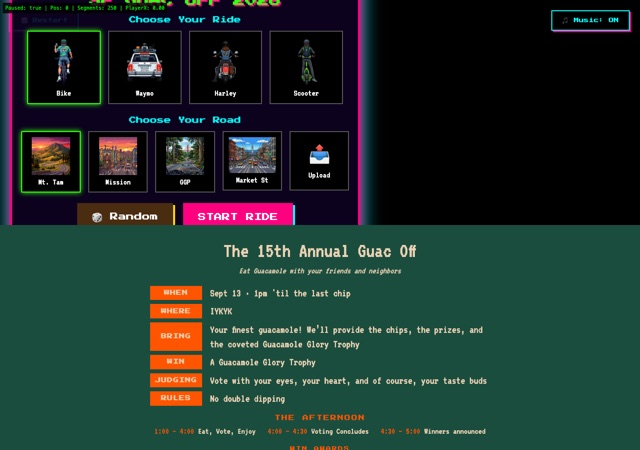
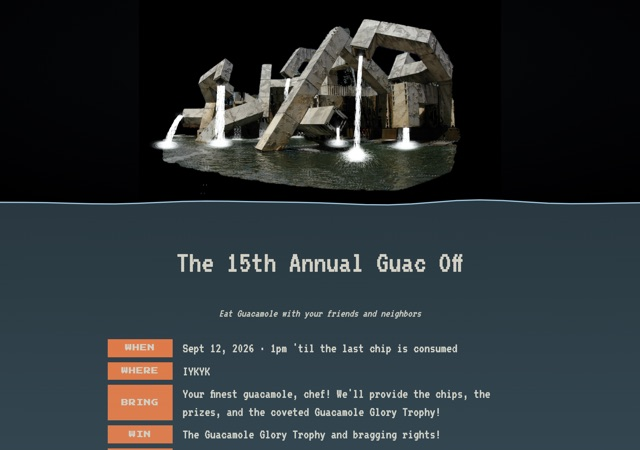
waterfall: add Sponsors section (Nopalito); link "Since 2012" to the years archive
- Sponsors section between the awards chips and the footer, on both the
  homepage and /waterfall/. Flex-wrap list so future sponsors are one more
  <li>; styled from the existing orange/cream palette.
- "Since 2012" in the footer now links to years/index.html, padded to a
  16px tap target since 7px pixel type is otherwise unhittable on a phone.
- Reshot years/assets/thumbs/2026.jpg: the old one was the pre-waterfall
  game homepage and showed the wrong date (Sept 13). Captured at 1024x720
  post-flood — same 64:45 aspect as shoot.sh's 1280x900, but the title and
  date stay legible once scaled to a 640x450 card.

diff --git a/Guac Off 2026/waterfall/index.css b/Guac Off 2026/waterfall/index.css
@@ -71,7 +71,7 @@ body {
 }
 .info-essentials dd { margin: 0; align-self: center; }
 
-.info-schedule h3, .info-awards h3 {
+.info-schedule h3, .info-awards h3, .info-sponsors h3 {
   font-family: var(--font-title); font-size: 12px; color: var(--info-orange);
   letter-spacing: 2px; margin-bottom: 10px; text-align: center; font-weight: normal;
 }
@@ -86,11 +86,33 @@ body {
 .chips { list-style: none; padding: 0; display: flex; flex-wrap: wrap; gap: 8px 10px; justify-content: center; }
 .chips li { border: 2px solid var(--info-orange); border-radius: 999px; padding: 2px 10px; font-size: 13px; line-height: 1.25; color: var(--info-cream); }
 
+/* ===== sponsors ===== */
+.info-sponsors h3 { font-size: 10px; }
+.sponsor-list { list-style: none; padding: 0; margin: 0; display: flex; flex-wrap: wrap; gap: 12px; justify-content: center; }
+.sponsor-list a {
+  display: flex; flex-direction: column; align-items: center; gap: 4px;
+  border: 2px solid var(--info-orange); border-radius: 10px; padding: 10px 18px;
+  color: var(--info-cream); text-decoration: none;
+  transition: background 180ms ease, color 180ms ease, transform 180ms ease;
+}
+.sponsor-list a:hover, .sponsor-list a:focus-visible { background: var(--info-orange); transform: translateY(-2px); }
+.sponsor-name { font-family: var(--font-title); font-size: 12px; letter-spacing: 1px; line-height: 1.2; }
+.sponsor-note { font-size: 16px; line-height: 1.1; opacity: 0.85; }
+
 #info-footer {
   text-align: center; font-family: var(--font-title); font-size: 7px; letter-spacing: 2px;
   color: var(--info-cream); opacity: 0.65; padding-top: 8px;
   border-top: 1px dashed rgba(235, 210, 180, 0.3);
 }
+/* "Since 2012" → the 15-year archive; padded so it's tappable at 7px pixel type */
+.footer-years {
+  display: inline-block; padding: 4px 2px; margin: -4px 0;
+  color: inherit; text-decoration: none;
+  border-bottom: 1px dashed rgba(235, 210, 180, 0.5);
+  transition: color 180ms ease, border-color 180ms ease;
+}
+.footer-years:hover, .footer-years:focus-visible { color: var(--info-orange); border-bottom-color: var(--info-orange); }
+
 .wf-back { text-align: center; }
 .wf-back a { color: #7cb342; text-decoration: none; font-size: 0.9rem; }
 .footer-email { display: inline-block; margin-top: 6px; font-family: var(--font-body); font-size: 12px; letter-spacing: 0.3px; color: #8bc34a; text-decoration: none; }
@@ -102,10 +124,14 @@ body {
   .info-subtitle { font-size: 14px; margin-top: -8px; margin-bottom: -7px; }
   .info-essentials { font-size: 17px; gap: 5px 12px; }
   .info-essentials dt { font-size: 9px; padding: 3px 8px; }
-  .info-schedule h3, .info-awards h3 { font-size: 10px; margin-bottom: 6px; }
+  .info-schedule h3, .info-awards h3, .info-sponsors h3 { font-size: 10px; margin-bottom: 6px; }
   .info-schedule ol { font-size: 15px; column-gap: 14px; }
   .chips { gap: 5px 7px; }
   .chips li { font-size: 11px; padding: 1px 8px; }
+  .sponsor-list { gap: 8px; }
+  .sponsor-list a { padding: 8px 14px; }
+  .sponsor-name { font-size: 10px; }
+  .sponsor-note { font-size: 14px; }
 }
 
 /* tappable "scroll down for more" button — shown while the details panel can scroll further */

diff --git a/Guac Off 2026/waterfall/index.html b/Guac Off 2026/waterfall/index.html
@@ -54,7 +54,19 @@
         </ul>
       </section>
 
-      <footer id="info-footer">No double dipping · Since 2012<br><a class="footer-email" href="mailto:missionguacparty@gmail.com">missionguacparty@gmail.com</a></footer>
+      <section class="info-sponsors">
+        <h3>SPONSORS</h3>
+        <ul class="sponsor-list">
+          <li>
+            <a href="https://www.nopalitosf.com/" target="_blank" rel="noopener">
+              <span class="sponsor-name">NOPALITO</span>
+              <span class="sponsor-note">The best damn chips in SF</span>
+            </a>
+          </li>
+        </ul>
+      </section>
+
+      <footer id="info-footer">No double dipping · <a class="footer-years" href="../years/index.html">Since 2012</a><br><a class="footer-email" href="mailto:missionguacparty@gmail.com">missionguacparty@gmail.com</a></footer>
       <p class="wf-back"><a href="../index.html">↩ back to the party</a></p>
     </div>
 

diff --git a/Guac Off 2026/index.html b/Guac Off 2026/index.html
@@ -54,7 +54,19 @@
         </ul>
       </section>
 
-      <footer id="info-footer">No double dipping · Since 2012<br><a class="footer-email" href="mailto:missionguacparty@gmail.com">missionguacparty@gmail.com</a></footer>
+      <section class="info-sponsors">
+        <h3>SPONSORS</h3>
+        <ul class="sponsor-list">
+          <li>
+            <a href="https://www.nopalitosf.com/" target="_blank" rel="noopener">
+              <span class="sponsor-name">NOPALITO</span>
+              <span class="sponsor-note">The best damn chips in SF</span>
+            </a>
+          </li>
+        </ul>
+      </section>
+
+      <footer id="info-footer">No double dipping · <a class="footer-years" href="years/index.html">Since 2012</a><br><a class="footer-email" href="mailto:missionguacparty@gmail.com">missionguacparty@gmail.com</a></footer>
     </div>
 
     <canvas id="pool" aria-hidden="true"></canvas>
